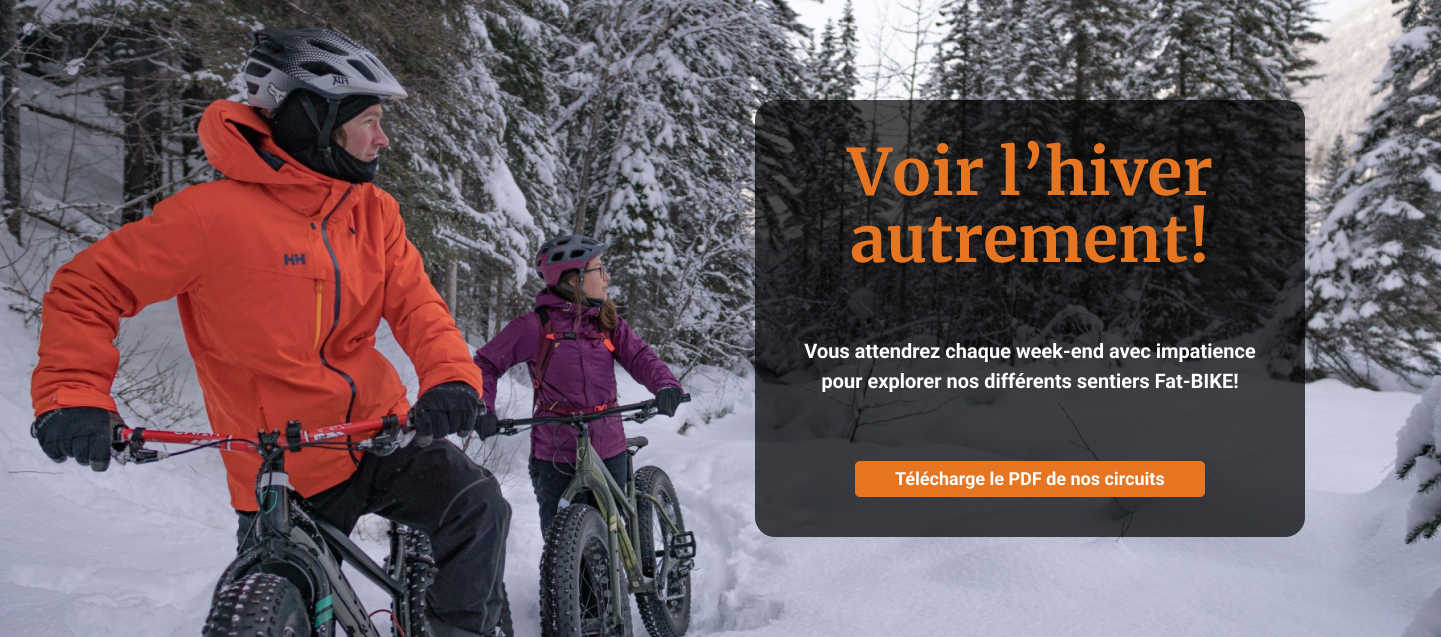
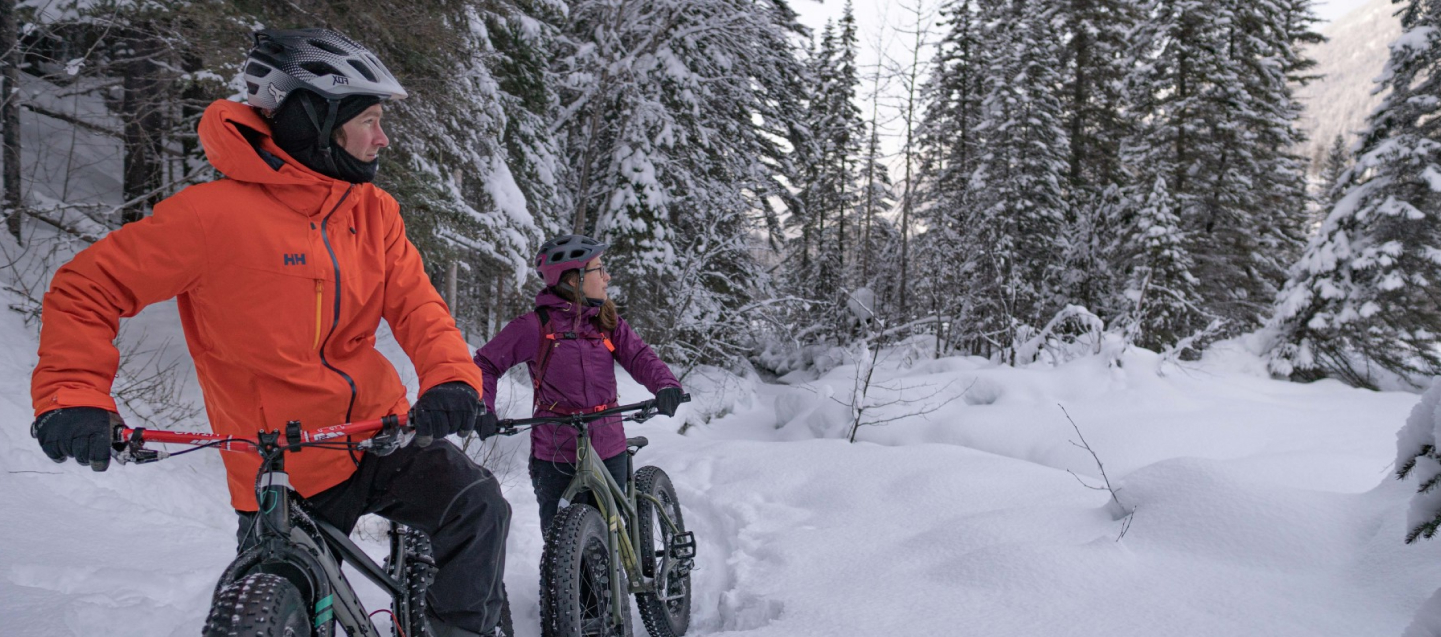
hero section css

Changed region(s): [[0.4997, 0.1491, 0.9056, 0.865]]

diff --git a/index.html b/index.html
@@ -49,11 +49,15 @@
 
     <section class="hero">
         <div class="wrapper">
-            <div>
-                <h1>Voir l’hiver autrement!</h1>
-                <blockquote>Vous attendrez chaque week-end avec impatience pour explorer nos différents sentiers
-                    Fat-BIKE!</blockquote>
-                <a href="#">Télécharge le PDF de nos circuits</a>
+            <div class="hero_box">
+                <div class="hero_cta">
+                    <h1>Voir l’hiver autrement!</h1>
+                    <blockquote>Vous attendrez chaque week-end avec impatience pour explorer nos différents sentiers
+                        Fat-BIKE!</blockquote>
+                    <div class="btn_pdf">
+                        <a href="#">Télécharge le PDF de nos circuits</a>
+                    </div>
+                </div>
             </div>
         </div>
     </section>
@@ -104,35 +108,34 @@
 
     <footer>
         <div class="wrapper">
-            <nav>
-                <ul>
-                    <li>
-                        <a href="#">
-                            <span class="material-symbols-outlined">
-                                directions_bike
-                            </span>
-                        </a>
-                    </li>
-                    <li>
-                        <a href="#">
-                            <span class="material-symbols-outlined">
-                                ac_unit
-                            </span>
-                        </a>
-                    </li>
-                    <li>
-                        <a href="#">
-                            <span class="material-symbols-outlined">
-                                group
-                            </span>
-                        </a>
-                    </li>
-                </ul>
-            </nav>
-    
+            <li>
+                <a href="#">
+                    <span class="material-symbols-outlined">
+                        directions_bike
+                    </span>
+                </a>
+            </li>
+            <li>
+                <a href="#">
+                    <span class="material-symbols-outlined">
+                        ac_unit
+                    </span>
+                </a>
+            </li>
+            <li>
+                <a href="#">
+                    <span class="material-symbols-outlined">
+                        group
+                    </span>
+                </a>
+            </li>
+            
             <p>Marie-France Turcotte© 2022 — Vélo 4 saisons</p>
         </div>
     </footer>
+
+
+    <div class="modale"></div>
 
 </body>
 

diff --git a/css/style.css b/css/style.css
@@ -24,6 +24,8 @@ body {
 
     margin: 0;
     padding: 0;
+
+    position: relative;
 }
 
 a {
@@ -41,14 +43,26 @@ h1, h2, h3{
     font-weight: 700;
 }
 
+h1{
+    font-size: 6.4rem;
+    color: #E67522;
+    line-height: 67.2px;
 
+    margin: 0;
+}
 
 /*------------------------------------------------------------------------------
    Component
 ------------------------------------------------------------------------------*/
 
+
+/* header */
 header{
     background-color: #379AE3;
+    
+    position: sticky;
+    top: 0;
+    z-index: 10;
 }
 
 header .titre_header{
@@ -96,5 +110,48 @@ header .billet:hover{
     border: 2px solid white;
     color: rgb(255, 255, 255);
     padding: 10px 30px 10px 30px;
+    border-radius: 5px;
+}
+
+/* hero */
+.hero{
+    background: no-repeat center/100% url("../images/hero.jpg");
+    height: 637px;
+}
+
+.hero .hero_box{
+    display: flex;
+    justify-content: flex-end;
+    align-items: center;
+    height: 637px;
+}
+
+.hero .hero_cta{
+    padding: 40px;
+    background-color: rgba(0, 0, 0, 0.7);
+    width: 470px;
+    text-align: center;
+    border-radius: 20px;
+}
+
+.hero .hero_cta blockquote{
+    color: #ffffff;
+    font-weight: 700;
+    font-size: 2rem;
+    margin: 0;
+
+    padding: 40px 0 40px;
+}
+
+.hero .hero_cta a{
+    color: white;
+    font-size: 1.8rem;
+    font-weight: 700;
+}
+
+
+.hero .hero_cta .btn_pdf{
+    background-color: #E67522;
+    padding: 10px 40px 10px 40px;
     border-radius: 5px;
 }
